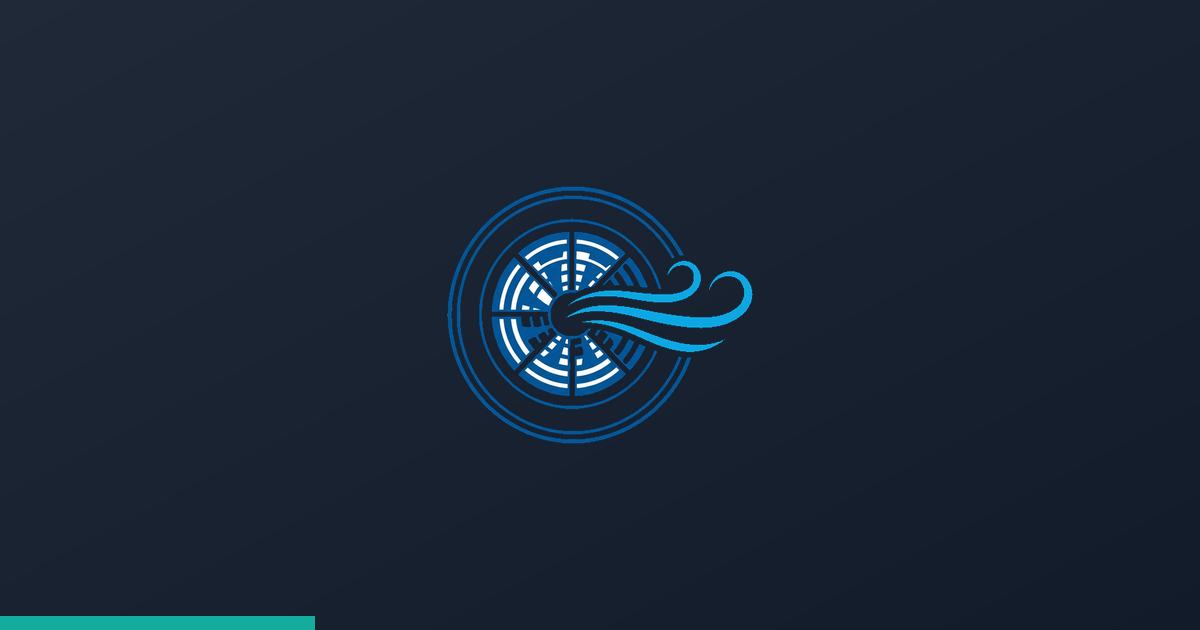
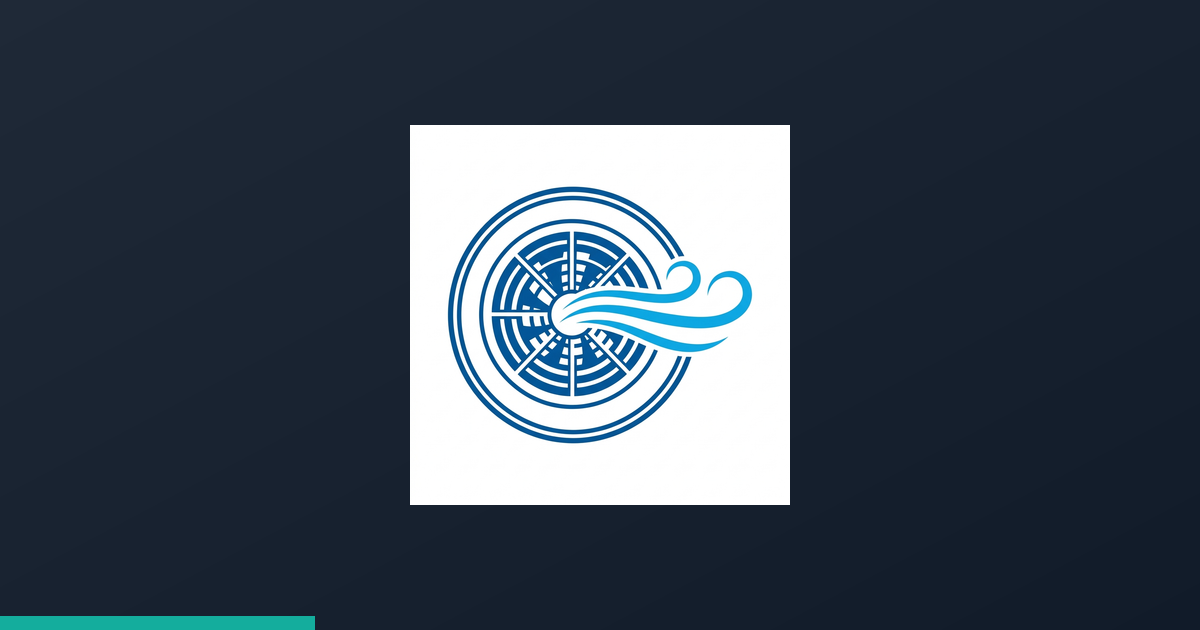
deploy: winghamductcleaning.ca (github actions)

Changed region(s): [[0.3392, 0.181, 0.6783, 0.8143]]

diff --git a/about/index.html b/about/index.html
@@ -149,7 +149,7 @@
 <div class="footer-grid">
 <div>
 <a class="brand footer-brand" href="/">
-<img alt="Wingham Duct Cleaning" class="brand__logo" decoding="async" height="64" loading="eager" src="/assets/img/logos-trans/winghamductcleaning.ca.png" width="64"/>
+<img alt="Wingham Duct Cleaning" class="brand__logo" decoding="async" height="64" loading="eager" src="/assets/img/logos/winghamductcleaning.ca.png" width="64"/>
 </a>
 <p class="footer-about">Honest, dependable air duct cleaning for Wingham, Ontario and the surrounding Huron communities. Certified, insured, and available 24/7.</p>
 </div>

diff --git a/blog/index.html b/blog/index.html
@@ -102,7 +102,7 @@
 <div class="footer-grid">
 <div>
 <a class="brand footer-brand" href="/">
-<img alt="Wingham Duct Cleaning" class="brand__logo" decoding="async" height="64" loading="eager" src="/assets/img/logos-trans/winghamductcleaning.ca.png" width="64"/>
+<img alt="Wingham Duct Cleaning" class="brand__logo" decoding="async" height="64" loading="eager" src="/assets/img/logos/winghamductcleaning.ca.png" width="64"/>
 </a>
 <p class="footer-about">Honest, dependable air duct cleaning for Wingham, Ontario and the surrounding Huron communities. Certified, insured, and available 24/7.</p>
 </div>

diff --git a/contact/index.html b/contact/index.html
@@ -174,7 +174,7 @@
 <div class="footer-grid">
 <div>
 <a class="brand footer-brand" href="/">
-<img alt="Wingham Duct Cleaning" class="brand__logo" decoding="async" height="64" loading="eager" src="/assets/img/logos-trans/winghamductcleaning.ca.png" width="64"/>
+<img alt="Wingham Duct Cleaning" class="brand__logo" decoding="async" height="64" loading="eager" src="/assets/img/logos/winghamductcleaning.ca.png" width="64"/>
 </a>
 <p class="footer-about">Honest, dependable air duct cleaning for Wingham, Ontario and the surrounding Huron communities. Certified, insured, and available 24/7.</p>
 </div>

diff --git a/index.html b/index.html
@@ -506,7 +506,7 @@
 <div class="footer-grid">
 <div>
 <a class="brand footer-brand" href="/">
-<img alt="Wingham Duct Cleaning" class="brand__logo" decoding="async" height="64" loading="eager" src="/assets/img/logos-trans/winghamductcleaning.ca.png" width="64"/>
+<img alt="Wingham Duct Cleaning" class="brand__logo" decoding="async" height="64" loading="eager" src="/assets/img/logos/winghamductcleaning.ca.png" width="64"/>
 </a>
 <p class="footer-about">Honest, dependable air duct cleaning for Wingham, Ontario and the surrounding Huron communities. Certified, insured, and available 24/7.</p>
 </div>

diff --git a/locations/blyth/index.html b/locations/blyth/index.html
@@ -199,7 +199,7 @@
 <div class="footer-grid">
 <div>
 <a class="brand footer-brand" href="/">
-<img alt="Wingham Duct Cleaning" class="brand__logo" decoding="async" height="64" loading="eager" src="/assets/img/logos-trans/winghamductcleaning.ca.png" width="64"/>
+<img alt="Wingham Duct Cleaning" class="brand__logo" decoding="async" height="64" loading="eager" src="/assets/img/logos/winghamductcleaning.ca.png" width="64"/>
 </a>
 <p class="footer-about">Honest, dependable air duct cleaning for Wingham, Ontario and the surrounding Huron communities. Certified, insured, and available 24/7.</p>
 </div>

diff --git a/locations/brussels/index.html b/locations/brussels/index.html
@@ -199,7 +199,7 @@
 <div class="footer-grid">
 <div>
 <a class="brand footer-brand" href="/">
-<img alt="Wingham Duct Cleaning" class="brand__logo" decoding="async" height="64" loading="eager" src="/assets/img/logos-trans/winghamductcleaning.ca.png" width="64"/>
+<img alt="Wingham Duct Cleaning" class="brand__logo" decoding="async" height="64" loading="eager" src="/assets/img/logos/winghamductcleaning.ca.png" width="64"/>
 </a>
 <p class="footer-about">Honest, dependable air duct cleaning for Wingham, Ontario and the surrounding Huron communities. Certified, insured, and available 24/7.</p>
 </div>

diff --git a/services/air-duct-cleaning/index.html b/services/air-duct-cleaning/index.html
@@ -225,7 +225,7 @@
 <div class="footer-grid">
 <div>
 <a class="brand footer-brand" href="/">
-<img alt="Wingham Duct Cleaning" class="brand__logo" decoding="async" height="64" loading="eager" src="/assets/img/logos-trans/winghamductcleaning.ca.png" width="64"/>
+<img alt="Wingham Duct Cleaning" class="brand__logo" decoding="async" height="64" loading="eager" src="/assets/img/logos/winghamductcleaning.ca.png" width="64"/>
 </a>
 <p class="footer-about">Honest, dependable air duct cleaning for Wingham, Ontario and the surrounding Huron communities. Certified, insured, and available 24/7.</p>
 </div>

diff --git a/services/commercial-duct-cleaning/index.html b/services/commercial-duct-cleaning/index.html
@@ -225,7 +225,7 @@
 <div class="footer-grid">
 <div>
 <a class="brand footer-brand" href="/">
-<img alt="Wingham Duct Cleaning" class="brand__logo" decoding="async" height="64" loading="eager" src="/assets/img/logos-trans/winghamductcleaning.ca.png" width="64"/>
+<img alt="Wingham Duct Cleaning" class="brand__logo" decoding="async" height="64" loading="eager" src="/assets/img/logos/winghamductcleaning.ca.png" width="64"/>
 </a>
 <p class="footer-about">Honest, dependable air duct cleaning for Wingham, Ontario and the surrounding Huron communities. Certified, insured, and available 24/7.</p>
 </div>

diff --git a/services/dryer-vent-cleaning/index.html b/services/dryer-vent-cleaning/index.html
@@ -225,7 +225,7 @@
 <div class="footer-grid">
 <div>
 <a class="brand footer-brand" href="/">
-<img alt="Wingham Duct Cleaning" class="brand__logo" decoding="async" height="64" loading="eager" src="/assets/img/logos-trans/winghamductcleaning.ca.png" width="64"/>
+<img alt="Wingham Duct Cleaning" class="brand__logo" decoding="async" height="64" loading="eager" src="/assets/img/logos/winghamductcleaning.ca.png" width="64"/>
 </a>
 <p class="footer-about">Honest, dependable air duct cleaning for Wingham, Ontario and the surrounding Huron communities. Certified, insured, and available 24/7.</p>
 </div>

diff --git a/services/duct-sanitizing/index.html b/services/duct-sanitizing/index.html
@@ -225,7 +225,7 @@
 <div class="footer-grid">
 <div>
 <a class="brand footer-brand" href="/">
-<img alt="Wingham Duct Cleaning" class="brand__logo" decoding="async" height="64" loading="eager" src="/assets/img/logos-trans/winghamductcleaning.ca.png" width="64"/>
+<img alt="Wingham Duct Cleaning" class="brand__logo" decoding="async" height="64" loading="eager" src="/assets/img/logos/winghamductcleaning.ca.png" width="64"/>
 </a>
 <p class="footer-about">Honest, dependable air duct cleaning for Wingham, Ontario and the surrounding Huron communities. Certified, insured, and available 24/7.</p>
 </div>

diff --git a/services/duct-sealing-repair/index.html b/services/duct-sealing-repair/index.html
@@ -225,7 +225,7 @@
 <div class="footer-grid">
 <div>
 <a class="brand footer-brand" href="/">
-<img alt="Wingham Duct Cleaning" class="brand__logo" decoding="async" height="64" loading="eager" src="/assets/img/logos-trans/winghamductcleaning.ca.png" width="64"/>
+<img alt="Wingham Duct Cleaning" class="brand__logo" decoding="async" height="64" loading="eager" src="/assets/img/logos/winghamductcleaning.ca.png" width="64"/>
 </a>
 <p class="footer-about">Honest, dependable air duct cleaning for Wingham, Ontario and the surrounding Huron communities. Certified, insured, and available 24/7.</p>
 </div>

diff --git a/services/furnace-ac-cleaning/index.html b/services/furnace-ac-cleaning/index.html
@@ -225,7 +225,7 @@
 <div class="footer-grid">
 <div>
 <a class="brand footer-brand" href="/">
-<img alt="Wingham Duct Cleaning" class="brand__logo" decoding="async" height="64" loading="eager" src="/assets/img/logos-trans/winghamductcleaning.ca.png" width="64"/>
+<img alt="Wingham Duct Cleaning" class="brand__logo" decoding="async" height="64" loading="eager" src="/assets/img/logos/winghamductcleaning.ca.png" width="64"/>
 </a>
 <p class="footer-about">Honest, dependable air duct cleaning for Wingham, Ontario and the surrounding Huron communities. Certified, insured, and available 24/7.</p>
 </div>
